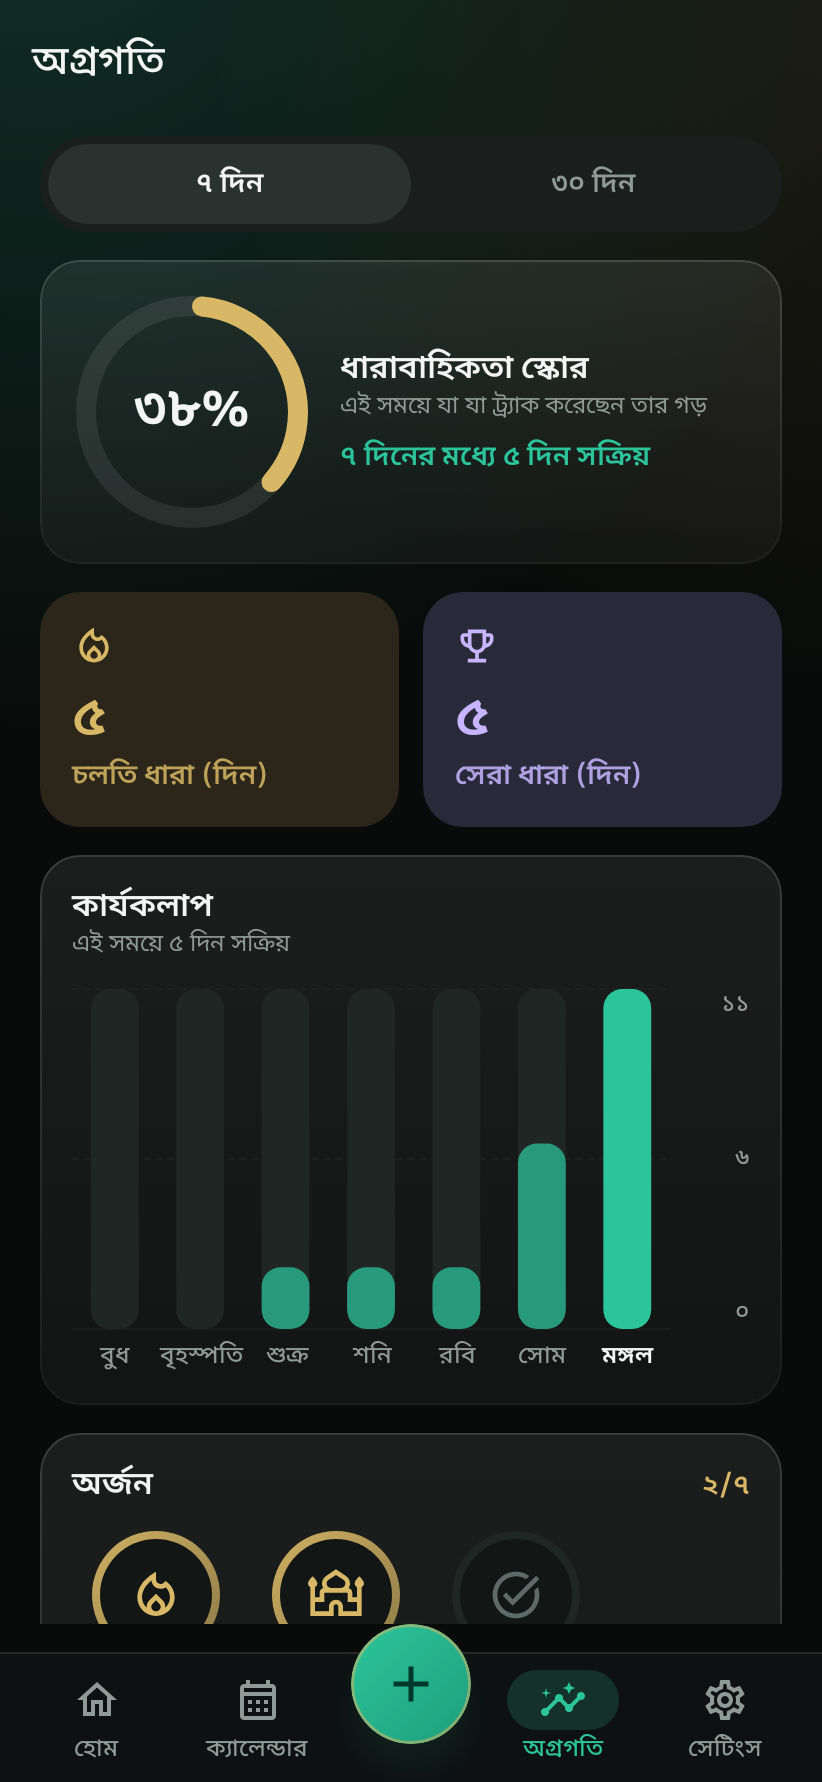
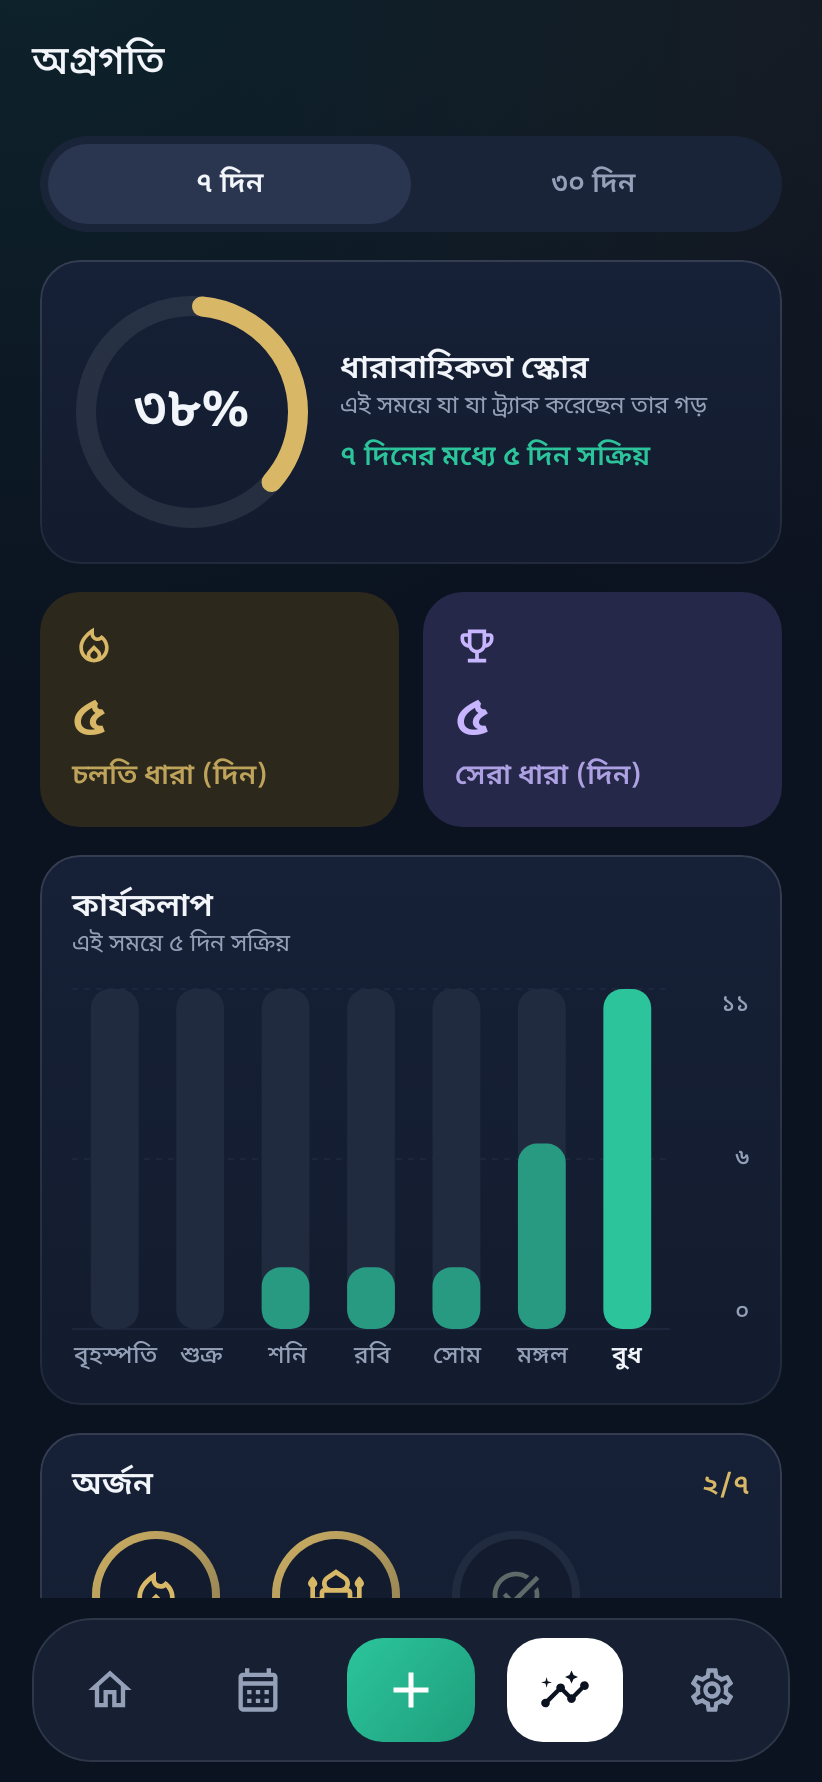
Fix content drawing under the status bar; Jashore-style navy UI
- Root NavHost consumed the whole Scaffold padding (incl. the status-bar
  inset) while only padding the bottom, so every screen drew under the
  status bar on phones. Now only the bottom inset is consumed.
  InsetsTest reproduces it with simulated system bars (fails on the old code).
- Navy dark palette, solid navy cards with hairline edge, softer glow
- Floating rounded bottom bar: icon tiles, active tile filled, green +
- Header: greeting on its own line, date + Hijri chip wrap (no cropping);
  person icon avatar when no name
- Hero card is tappable; replaces the cramped "Open plan" button

Claude-Session: https://claude.ai/code/session_01DzHzb7W4pBE54UVbYxh7UK

diff --git a/app/src/main/kotlin/com/hayat/app/Chrome.kt b/app/src/main/kotlin/com/hayat/app/Chrome.kt
@@ -63,66 +63,62 @@ import com.hayat.core.navigation.*
 import com.hayat.core.ui.R as UiR
 
 /**
- * Bottom navigation: light surface with a hairline top border, four tabs whose labels are always
- * visible, and a raised centre "+" that opens the create sheet.
+ * Floating rounded navigation bar: icon tiles, the active one filled (white on dark, ink on light),
+ * and a green "+" tile in the centre. Labels are announced to screen readers.
  */
 @Composable
 fun HayatBottomBar(current: TopLevel, onSelect: (TopLevel) -> Unit, onAdd: () -> Unit) {
-    val scheme = MaterialTheme.colorScheme
-    Box(Modifier.fillMaxWidth()) {
-        val dark = HayatThemeExt.colors.isDark
-        Column(Modifier.fillMaxWidth().padding(top = 14.dp).background(if (dark) Color(0xF00E1211) else scheme.surface)) {
-            Box(Modifier.fillMaxWidth().height(1.dp).background(HayatThemeExt.colors.hairline))
-            Row(
-                Modifier.fillMaxWidth().windowInsetsPadding(WindowInsets.navigationBars).height(64.dp).padding(horizontal = 8.dp),
-                verticalAlignment = Alignment.CenterVertically,
-            ) {
-                NavTab(current == TopLevel.HOME, Icons.Outlined.Home, stringResource(UiR.string.feature_home), Modifier.weight(1f)) { onSelect(TopLevel.HOME) }
-                NavTab(current == TopLevel.CALENDAR, Icons.Outlined.CalendarMonth, stringResource(UiR.string.feature_calendar), Modifier.weight(1f)) { onSelect(TopLevel.CALENDAR) }
-                Spacer(Modifier.width(72.dp))
-                NavTab(current == TopLevel.PROGRESS, Icons.Outlined.Insights, stringResource(UiR.string.feature_progress), Modifier.weight(1f)) { onSelect(TopLevel.PROGRESS) }
-                NavTab(current == TopLevel.SETTINGS, Icons.Outlined.Settings, stringResource(UiR.string.feature_settings), Modifier.weight(1f)) { onSelect(TopLevel.SETTINGS) }
-            }
+    val ext = HayatThemeExt.colors
+    val shape = RoundedCornerShape(30.dp)
+    Box(Modifier.fillMaxWidth().windowInsetsPadding(WindowInsets.navigationBars).padding(horizontal = 16.dp, vertical = 10.dp)) {
+        Row(
+            Modifier.fillMaxWidth().height(72.dp)
+                .shadow(if (ext.isDark) 0.dp else 14.dp, shape, ambientColor = Color.Black.copy(0.08f), spotColor = Color.Black.copy(0.14f))
+                .clip(shape)
+                .background(if (ext.isDark) Color(0xF2172133) else MaterialTheme.colorScheme.surface)
+                .border(1.dp, ext.hairline, shape)
+                .padding(horizontal = 10.dp),
+            horizontalArrangement = Arrangement.SpaceBetween,
+            verticalAlignment = Alignment.CenterVertically,
+        ) {
+            NavTile(current == TopLevel.HOME, Icons.Outlined.Home, stringResource(UiR.string.feature_home)) { onSelect(TopLevel.HOME) }
+            NavTile(current == TopLevel.CALENDAR, Icons.Outlined.CalendarMonth, stringResource(UiR.string.feature_calendar)) { onSelect(TopLevel.CALENDAR) }
+            AddTile(stringResource(UiR.string.feature_add), onAdd)
+            NavTile(current == TopLevel.PROGRESS, Icons.Outlined.Insights, stringResource(UiR.string.feature_progress)) { onSelect(TopLevel.PROGRESS) }
+            NavTile(current == TopLevel.SETTINGS, Icons.Outlined.Settings, stringResource(UiR.string.feature_settings)) { onSelect(TopLevel.SETTINGS) }
         }
-        AddFab(stringResource(UiR.string.feature_add), onAdd, Modifier.align(Alignment.TopCenter))
     }
 }
 
 @Composable
-private fun NavTab(selected: Boolean, icon: ImageVector, label: String, modifier: Modifier, onClick: () -> Unit) {
+private fun NavTile(selected: Boolean, icon: ImageVector, label: String, onClick: () -> Unit) {
     val scheme = MaterialTheme.colorScheme
+    val ext = HayatThemeExt.colors
     val interaction = remember { MutableInteractionSource() }
-    val color by animateColorAsState(if (selected) scheme.primary else scheme.onSurfaceVariant, tween(180), label = "tab")
-    val pill by animateColorAsState(if (selected) scheme.primaryContainer else Color.Transparent, tween(180), label = "pill")
-    Column(
-        modifier.fillMaxHeight().clip(RoundedCornerShape(16.dp))
-            .selectable(selected, interaction, ripple(bounded = false), role = Role.Tab, onClick = onClick)
-            .semantics(mergeDescendants = true) { contentDescription = label },
-        horizontalAlignment = Alignment.CenterHorizontally, verticalArrangement = Arrangement.Center,
-    ) {
-        Box(Modifier.size(width = 56.dp, height = 30.dp).clip(RoundedCornerShape(15.dp)).background(pill), contentAlignment = Alignment.Center) {
-            Icon(icon, null, tint = color, modifier = Modifier.size(24.dp))
-        }
-        Text(label, color = color, style = MaterialTheme.typography.labelMedium, maxLines = 1, modifier = Modifier.padding(top = 2.dp).clearAndSetSemantics { })
-    }
+    val activeBg = if (ext.isDark) Color.White else scheme.onSurface
+    val bg by animateColorAsState(if (selected) activeBg else Color.Transparent, tween(180), label = "tile")
+    val fg by animateColorAsState(if (selected) (if (ext.isDark) Color(0xFF0B1220) else scheme.surface) else scheme.onSurfaceVariant, tween(180), label = "tilefg")
+    Box(
+        Modifier.size(width = 58.dp, height = 52.dp).pressScale(interaction).clip(RoundedCornerShape(18.dp)).background(bg)
+            .selectable(selected, interaction, ripple(), role = Role.Tab, onClick = onClick)
+            .semantics { contentDescription = label },
+        contentAlignment = Alignment.Center,
+    ) { Icon(icon, null, tint = fg, modifier = Modifier.size(26.dp)) }
 }
 
 @Composable
-private fun AddFab(label: String, onClick: () -> Unit, modifier: Modifier = Modifier) {
-    val scheme = MaterialTheme.colorScheme
+private fun AddTile(label: String, onClick: () -> Unit) {
+    val ext = HayatThemeExt.colors
     val haptic = androidx.compose.ui.platform.LocalHapticFeedback.current
     val interaction = remember { MutableInteractionSource() }
     Box(
-        modifier.size(60.dp).pressScale(interaction)
-            .shadow(8.dp, CircleShape, ambientColor = scheme.primary.copy(0.3f), spotColor = scheme.primary.copy(0.4f))
-            .clip(CircleShape)
-            .background(Brush.linearGradient(listOf(HayatThemeExt.colors.gradientStart, HayatThemeExt.colors.gradientEnd)))
-            .border(1.5.dp, HayatThemeExt.colors.gold.copy(alpha = 0.55f), CircleShape)
-            .clickable(interaction, ripple(color = scheme.onPrimary), role = Role.Button) {
+        Modifier.size(width = 64.dp, height = 52.dp).pressScale(interaction, 0.92f).clip(RoundedCornerShape(18.dp))
+            .background(Brush.linearGradient(listOf(ext.gradientStart, ext.gradientEnd)))
+            .clickable(interaction, ripple(color = Color.White), role = Role.Button) {
                 haptic.performHapticFeedback(androidx.compose.ui.hapticfeedback.HapticFeedbackType.VirtualKey); onClick()
             },
         contentAlignment = Alignment.Center,
-    ) { Icon(Icons.Outlined.Add, label, tint = scheme.onPrimary, modifier = Modifier.size(30.dp)) }
+    ) { Icon(Icons.Outlined.Add, label, tint = Color.White, modifier = Modifier.size(30.dp)) }
 }
 
 private data class AddAction(val icon: ImageVector, val label: Int, val route: Any)

diff --git a/feature/dashboard/src/main/kotlin/com/hayat/feature/dashboard/Dashboard.kt b/feature/dashboard/src/main/kotlin/com/hayat/feature/dashboard/Dashboard.kt
@@ -459,6 +459,7 @@ private fun DashboardScreen(nav: NavController, vm: DashboardViewModel = hiltVie
     if (customWater) CustomWaterDialog(onDismiss = { customWater = false }, onAdd = { vm.addWater(it); customWater = false })
 }
 
+@OptIn(androidx.compose.foundation.layout.ExperimentalLayoutApi::class)
 @Composable
 private fun HomeHeader(s: DashboardState, nav: NavController, modifier: Modifier = Modifier) {
     val fmt = LocalFormatter.current
@@ -478,11 +479,13 @@ private fun HomeHeader(s: DashboardState, nav: NavController, modifier: Modifier
         }
         Spacer(Modifier.width(12.dp))
         Column(Modifier.weight(1f)) {
-            Text(if (name.isBlank()) greeting else stringResource(R.string.db_greeting, greeting, name), style = MaterialTheme.typography.titleSmall, maxLines = 1, overflow = TextOverflow.Ellipsis)
-            Row(verticalAlignment = Alignment.CenterVertically, modifier = Modifier.padding(top = 2.dp)) {
-                Text(fmt.dayMonth(s.today), style = MaterialTheme.typography.labelMedium, color = MaterialTheme.colorScheme.onSurfaceVariant, maxLines = 1)
+            Text(if (name.isBlank()) greeting else stringResource(R.string.db_greeting, greeting, name), style = MaterialTheme.typography.titleMedium, maxLines = 2, overflow = TextOverflow.Ellipsis)
+            androidx.compose.foundation.layout.FlowRow(
+                Modifier.padding(top = 4.dp), horizontalArrangement = Arrangement.spacedBy(6.dp), verticalArrangement = Arrangement.spacedBy(4.dp),
+            ) {
+                Text(fmt.dayMonth(s.today), style = MaterialTheme.typography.labelMedium, color = MaterialTheme.colorScheme.onSurfaceVariant, maxLines = 1,
+                    modifier = Modifier.align(Alignment.CenterVertically))
                 if (s.prefs.islamicModuleEnabled) HijriCalendar.fromGregorian(s.today, s.prefs.hijriOffsetDays)?.let { h ->
-                    Spacer(Modifier.width(6.dp))
                     Text(fmt.hijri(h.day, h.month, h.year), style = MaterialTheme.typography.labelSmall, color = ext.prayer.second, maxLines = 1,
                         modifier = Modifier.clip(RoundedCornerShape(8.dp)).background(ext.prayer.first).padding(horizontal = 8.dp, vertical = 2.dp))
                 }
@@ -507,7 +510,7 @@ private fun HeroCard(s: DashboardState, nav: NavController, modifier: Modifier =
     val frac = if (s.totalCount == 0) 0f else s.doneCount.toFloat() / s.totalCount
     val pct = percentOf(frac)
     val text = if (s.totalCount == 0) stringResource(R.string.db_progress_empty) else stringResource(R.string.db_progress_text, fmt.number(s.doneCount), fmt.number(s.totalCount))
-    HayatCard(modifier, contentPadding = PaddingValues(18.dp)) {
+    HayatCard(modifier, onClick = { nav.navigate(CalendarRoute()) }, contentPadding = PaddingValues(18.dp)) {
         Row(verticalAlignment = Alignment.CenterVertically) {
             ProgressRing(pct / 100f, size = 108.dp, stroke = 10.dp, description = stringResource(R.string.db_progress) + " " + fmt.number(pct) + "%",
                 color = if (ext.isDark) ext.gold else MaterialTheme.colorScheme.primary,
@@ -520,8 +523,11 @@ private fun HeroCard(s: DashboardState, nav: NavController, modifier: Modifier =
             Column(Modifier.weight(1f)) {
                 Text(stringResource(R.string.db_progress), style = MaterialTheme.typography.titleMedium)
                 Text(text, style = MaterialTheme.typography.bodyMedium, color = MaterialTheme.colorScheme.onSurfaceVariant)
-                Spacer(Modifier.height(10.dp))
-                HayatButton(stringResource(R.string.db_open_plan), { nav.navigate(CalendarRoute()) }, variant = ButtonVariant.TONAL, height = 44.dp, icon = Icons.Outlined.ViewTimeline)
+                Spacer(Modifier.height(8.dp))
+                Row(verticalAlignment = Alignment.CenterVertically) {
+                    Text(stringResource(R.string.db_open_plan), style = MaterialTheme.typography.labelLarge, color = MaterialTheme.colorScheme.primary)
+                    Icon(Icons.Outlined.ChevronRight, null, Modifier.size(18.dp), tint = MaterialTheme.colorScheme.primary)
+                }
             }
         }
         Spacer(Modifier.height(14.dp))

diff --git a/app/src/test/kotlin/com/hayat/app/InsetsTest.kt b/app/src/test/kotlin/com/hayat/app/InsetsTest.kt
@@ -1,0 +1,73 @@
+package com.hayat.app
+
+import android.content.Context
+import androidx.compose.ui.test.getBoundsInRoot
+import androidx.compose.ui.test.junit4.createAndroidComposeRule
+import androidx.compose.ui.test.onNodeWithContentDescription
+import androidx.compose.ui.unit.dp
+import androidx.core.graphics.Insets
+import androidx.core.view.ViewCompat
+import androidx.core.view.WindowInsetsCompat
+import androidx.test.core.app.ApplicationProvider
+import androidx.work.testing.WorkManagerTestInitHelper
+import com.hayat.core.domain.repository.PreferencesRepository
+import dagger.hilt.android.testing.HiltAndroidRule
+import dagger.hilt.android.testing.HiltAndroidTest
+import dagger.hilt.android.testing.HiltTestApplication
+import kotlinx.coroutines.runBlocking
+import org.junit.Assert.assertTrue
+import org.junit.Before
+import org.junit.Rule
+import org.junit.Test
+import org.junit.rules.RuleChain
+import org.junit.rules.TestRule
+import org.junit.runner.RunWith
+import org.junit.runners.model.Statement
+import org.robolectric.RobolectricTestRunner
+import org.robolectric.annotation.Config
+import org.robolectric.annotation.GraphicsMode
+import javax.inject.Inject
+
+/** Regression: content must start below the status bar (it once drew underneath it on phones). */
+@HiltAndroidTest
+@RunWith(RobolectricTestRunner::class)
+@Config(application = HiltTestApplication::class, qualifiers = "en-w411dp-h891dp")
+@GraphicsMode(GraphicsMode.Mode.NATIVE)
+class InsetsTest {
+    private val hilt = HiltAndroidRule(this)
+    private val workManager = TestRule { base, _ ->
+        object : Statement() {
+            override fun evaluate() {
+                WorkManagerTestInitHelper.initializeTestWorkManager(ApplicationProvider.getApplicationContext<Context>())
+                base.evaluate()
+            }
+        }
+    }
+    private val compose = createAndroidComposeRule<MainActivity>()
+    @get:Rule val rules: RuleChain = RuleChain.outerRule(hilt).around(workManager).around(compose)
+    @Inject lateinit var prefs: PreferencesRepository
+
+    @Before fun setUp() {
+        hilt.inject()
+        runBlocking { prefs.update { it.copy(onboardingCompleted = true) } }
+    }
+
+    @Test fun `home header sits below the status bar and nav above the navigation bar`() {
+        compose.waitUntil(10_000) { compose.onAllNodes(androidx.compose.ui.test.hasContentDescription("Search")).fetchSemanticsNodes().isNotEmpty() }
+        val statusBar = 40.dp
+        compose.runOnUiThread {
+            val px = (statusBar.value * compose.activity.resources.displayMetrics.density).toInt()
+            val insets = WindowInsetsCompat.Builder()
+                .setInsets(WindowInsetsCompat.Type.statusBars(), Insets.of(0, px, 0, 0))
+                .setInsets(WindowInsetsCompat.Type.navigationBars(), Insets.of(0, 0, 0, px))
+                .build()
+            ViewCompat.dispatchApplyWindowInsets(compose.activity.window.decorView, insets)
+        }
+        compose.waitForIdle()
+        val searchTop = compose.onNodeWithContentDescription("Search").getBoundsInRoot().top
+        assertTrue("header top $searchTop must be below the ${statusBar} status bar", searchTop >= statusBar)
+        val homeTab = compose.onNodeWithContentDescription("Home").getBoundsInRoot()
+        val rootHeight = compose.onNode(androidx.compose.ui.test.isRoot()).getBoundsInRoot().bottom
+        assertTrue("bottom bar must sit above the navigation bar", homeTab.bottom <= rootHeight - statusBar)
+    }
+}

diff --git a/core/designsystem/src/main/kotlin/com/hayat/core/designsystem/theme/Color.kt b/core/designsystem/src/main/kotlin/com/hayat/core/designsystem/theme/Color.kt
@@ -16,14 +16,14 @@ internal object Palette {
     val LightText = Color(0xFF121614)
     val LightText2 = Color(0xFF5E6763)
     val LightBorder = Color(0xFFE6E2D8)
-    val DarkBg = Color(0xFF090B0A)
-    val DarkSurface = Color(0xFF121614)
-    val DarkRaised = Color(0xFF1A1F1D)
+    val DarkBg = Color(0xFF0B1220)
+    val DarkSurface = Color(0xFF131C2E)
+    val DarkRaised = Color(0xFF1A2438)
     val DarkEmerald = Color(0xFF2CC59B)
     val DarkGold = Color(0xFFD8B866)
-    val DarkText = Color(0xFFF3F5F4)
-    val DarkText2 = Color(0xFF8F9A96)
-    val DarkBorder = Color(0xFF232927)
+    val DarkText = Color(0xFFF2F5FA)
+    val DarkText2 = Color(0xFF94A0B8)
+    val DarkBorder = Color(0xFF24314A)
     val Error = Color(0xFFB3261E)
 }
 
@@ -65,7 +65,7 @@ internal val LightColors: ColorScheme = lightColorScheme(
 internal val DarkColors: ColorScheme = darkColorScheme(
     primary = Palette.DarkEmerald,
     onPrimary = Color(0xFF00382C),
-    primaryContainer = Color(0xFF14322A),
+    primaryContainer = Color(0xFF123A36),
     onPrimaryContainer = Color(0xFF7FE3C4),
     secondary = Palette.DarkText2,
     onSecondary = Palette.DarkBg,
@@ -73,7 +73,7 @@ internal val DarkColors: ColorScheme = darkColorScheme(
     onSecondaryContainer = Palette.DarkText,
     tertiary = Palette.DarkGold,
     onTertiary = Color(0xFF3A2C00),
-    tertiaryContainer = Color(0xFF2E2919),
+    tertiaryContainer = Color(0xFF2D281C),
     onTertiaryContainer = Palette.DarkGold,
     error = Color(0xFFFFB4AB),
     onError = Color(0xFF690005),
@@ -90,8 +90,8 @@ internal val DarkColors: ColorScheme = darkColorScheme(
     surfaceContainerLowest = Palette.DarkBg,
     surfaceContainerLow = Palette.DarkSurface,
     surfaceContainer = Palette.DarkRaised,
-    surfaceContainerHigh = Color(0xFF202623),
-    surfaceContainerHighest = Color(0xFF2A312E),
+    surfaceContainerHigh = Color(0xFF202B40),
+    surfaceContainerHighest = Color(0xFF2A3650),
     inverseSurface = Palette.DarkText,
     inverseOnSurface = Color(0xFF1B2321),
     inversePrimary = Palette.Emerald,
@@ -157,10 +157,10 @@ internal val LightExtended = HayatExtendedColors(
 )
 internal val DarkExtended = HayatExtendedColors(
     warning = Palette.DarkGold, onWarning = Color(0xFF3A2C00), warningContainer = Color(0xFF313122), onWarningContainer = Palette.DarkGold,
-    success = Palette.DarkEmerald, successContainer = Color(0xFF19322C), onSuccessContainer = Color(0xFF6FDDBF),
-    lavender = Color(0xFF292A39) to Color(0xFFC7B6FF), amber = Color(0xFF2B2619) to Palette.DarkGold,
-    mint = Color(0xFF19322C) to Color(0xFF6FDDBF), pink = Color(0xFF352A2E) to Color(0xFFFFB3C8),
-    sky = Color(0xFF1E2D39) to Color(0xFF9CC6FF),
+    success = Palette.DarkEmerald, successContainer = Color(0xFF123A36), onSuccessContainer = Color(0xFF6FDDBF),
+    lavender = Color(0xFF252848) to Color(0xFFC7B6FF), amber = Color(0xFF2D281C) to Palette.DarkGold,
+    mint = Color(0xFF123A36) to Color(0xFF6FDDBF), pink = Color(0xFF3A2232) to Color(0xFFFFB3C8),
+    sky = Color(0xFF1A2B45) to Color(0xFF9CC6FF),
     gradientStart = Color(0xFF2CC59B), gradientEnd = Color(0xFF1E9E7C),
     ink = Palette.DarkRaised, onInk = Palette.DarkText, inkAccent = Palette.DarkGold, hairline = Color(0x1AFFFFFF),
     gold = Palette.DarkGold, primaryPressed = Color(0xFF2AA889), shadow = Color.Transparent, isDark = true,

diff --git a/app/src/main/kotlin/com/hayat/app/HayatRoot.kt b/app/src/main/kotlin/com/hayat/app/HayatRoot.kt
@@ -89,7 +89,9 @@ fun HayatRoot(vm: MainViewModel, appVersion: String) {
                             p.serverSetupPending -> com.hayat.core.navigation.ConnectServerRoute(firstRun = true)
                             else -> HomeRoute
                         },
-                        modifier = Modifier.padding(bottom = pad.calculateBottomPadding()).consumeWindowInsets(pad),
+                        // Pad and consume only the bottom (bottom bar). Consuming the whole padding here would mark the
+                        // status bar as handled, and every screen would then draw underneath it.
+                        modifier = Modifier.padding(bottom = pad.calculateBottomPadding()).consumeWindowInsets(androidx.compose.foundation.layout.PaddingValues(bottom = pad.calculateBottomPadding())),
                         // Short, GPU-cheap transitions; none at all when the user asked for reduced motion.
                         enterTransition = { if (p.reduceMotion) EnterTransition.None else fadeIn(tween(200, delayMillis = 30, easing = LinearOutSlowInEasing)) + slideInHorizontally(tween(220, easing = LinearOutSlowInEasing)) { it / 16 } },
                         exitTransition = { if (p.reduceMotion) ExitTransition.None else fadeOut(tween(150)) },

diff --git a/core/designsystem/src/main/kotlin/com/hayat/core/designsystem/component/Components.kt b/core/designsystem/src/main/kotlin/com/hayat/core/designsystem/component/Components.kt
@@ -100,8 +100,8 @@ fun HayatCard(
 }
 
 /** Translucent glass fill (top slightly brighter) and edge used for dark-theme cards and bars. */
-val GlassFill = androidx.compose.ui.graphics.Brush.verticalGradient(listOf(Color(0x14FFFFFF), Color(0x0AFFFFFF)))
-val GlassEdge = androidx.compose.ui.graphics.Brush.verticalGradient(listOf(Color(0x24FFFFFF), Color(0x0AFFFFFF)))
+val GlassFill = androidx.compose.ui.graphics.Brush.verticalGradient(listOf(Color(0xFF162036), Color(0xFF131C2E)))
+val GlassEdge = androidx.compose.ui.graphics.Brush.verticalGradient(listOf(Color(0x22FFFFFF), Color(0x0FFFFFFF)))
 
 /** Light theme: soft shadow (y 4, blur 16, ~6 %). Dark theme: 1 px border. */
 fun Modifier.softCard(shape: androidx.compose.ui.graphics.Shape): Modifier = composed {
@@ -119,8 +119,8 @@ fun Modifier.hayatBackdrop(): Modifier = composed {
     val base = MaterialTheme.colorScheme.background
     val emerald = ext.gradientStart
     val gold = ext.gold
-    val glowA = if (ext.isDark) 0.20f else 0.06f
-    val glowB = if (ext.isDark) 0.09f else 0.06f
+    val glowA = if (ext.isDark) 0.10f else 0.05f
+    val glowB = if (ext.isDark) 0.05f else 0.05f
     drawBehind {
         drawRect(base)
         val w = size.width

diff --git a/core/designsystem/src/main/kotlin/com/hayat/core/designsystem/component/Hero.kt b/core/designsystem/src/main/kotlin/com/hayat/core/designsystem/component/Hero.kt
@@ -37,6 +37,7 @@ import androidx.compose.foundation.shape.CircleShape
 import androidx.compose.foundation.shape.RoundedCornerShape
 import androidx.compose.material.icons.Icons
 import androidx.compose.material.icons.outlined.Check
+import androidx.compose.material.icons.outlined.Person
 import androidx.compose.material.icons.outlined.Notifications
 import androidx.compose.material3.Icon
 import androidx.compose.material3.MaterialTheme
@@ -74,7 +75,9 @@ import com.hayat.core.designsystem.theme.LocalReduceMotion
 fun InitialAvatar(name: String, modifier: Modifier = Modifier, size: Dp = 48.dp) {
     val ext = HayatThemeExt.colors
     Box(modifier.size(size).clip(CircleShape).background(Brush.linearGradient(listOf(ext.gradientStart, ext.gradientEnd))), contentAlignment = Alignment.Center) {
-        Text(name.trim().firstOrNull()?.uppercase() ?: "☺", style = MaterialTheme.typography.titleLarge, color = Color.White)
+        val initial = name.trim().firstOrNull()?.uppercase()
+        if (initial != null) Text(initial, style = MaterialTheme.typography.titleLarge, color = Color.White)
+        else Icon(Icons.Outlined.Person, null, tint = Color.White, modifier = Modifier.size(size * 0.5f))
     }
 }
 
